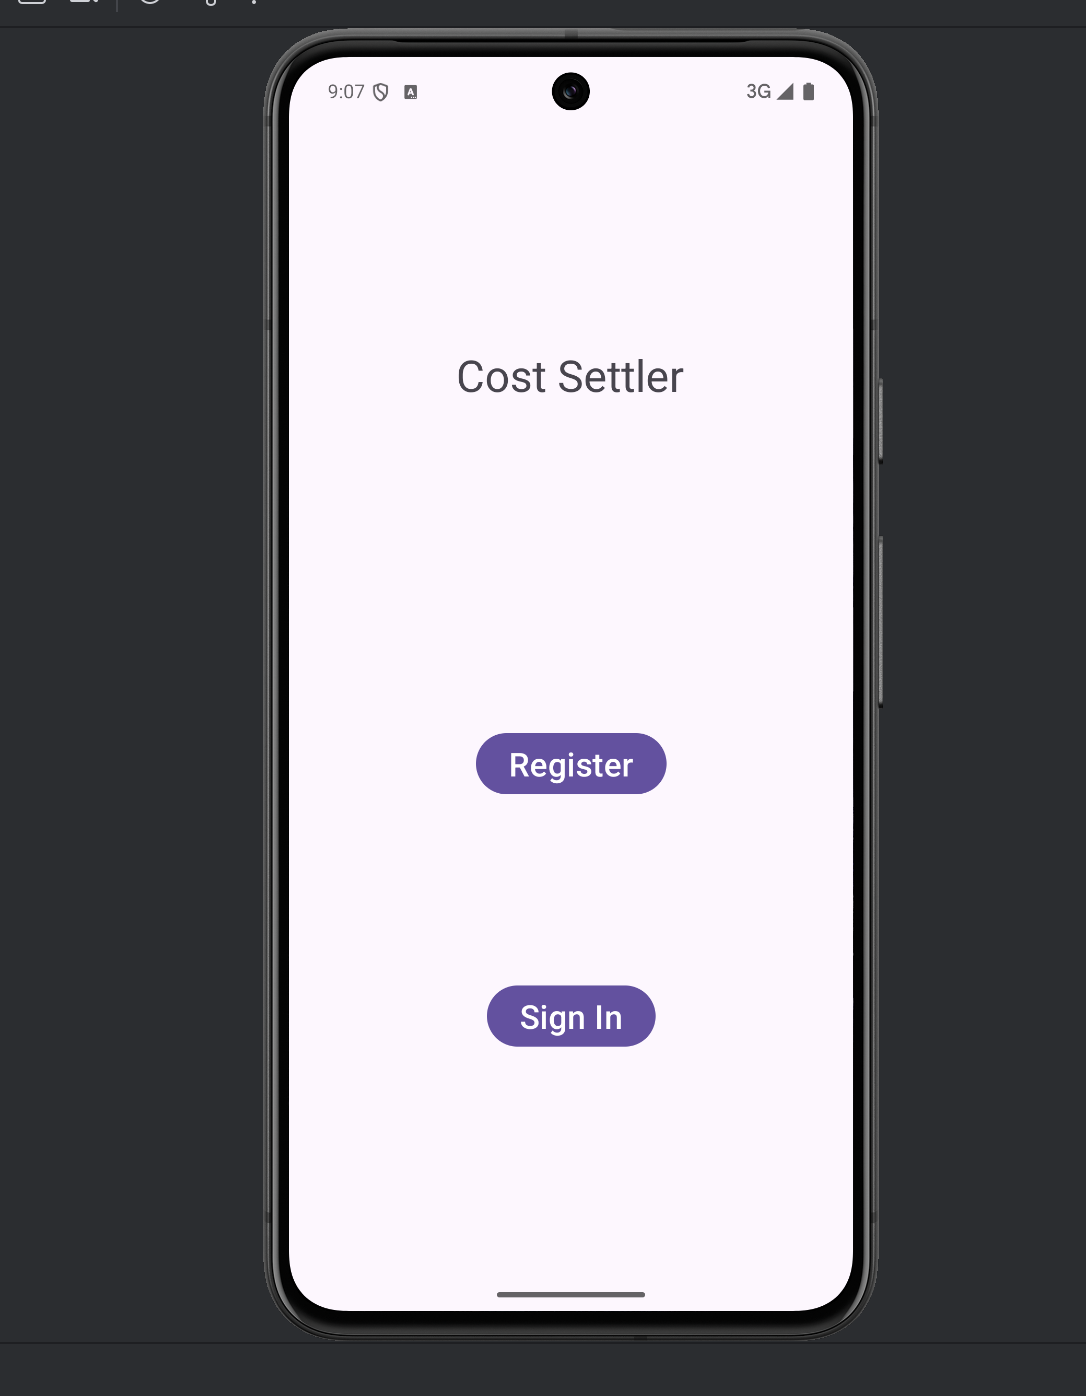
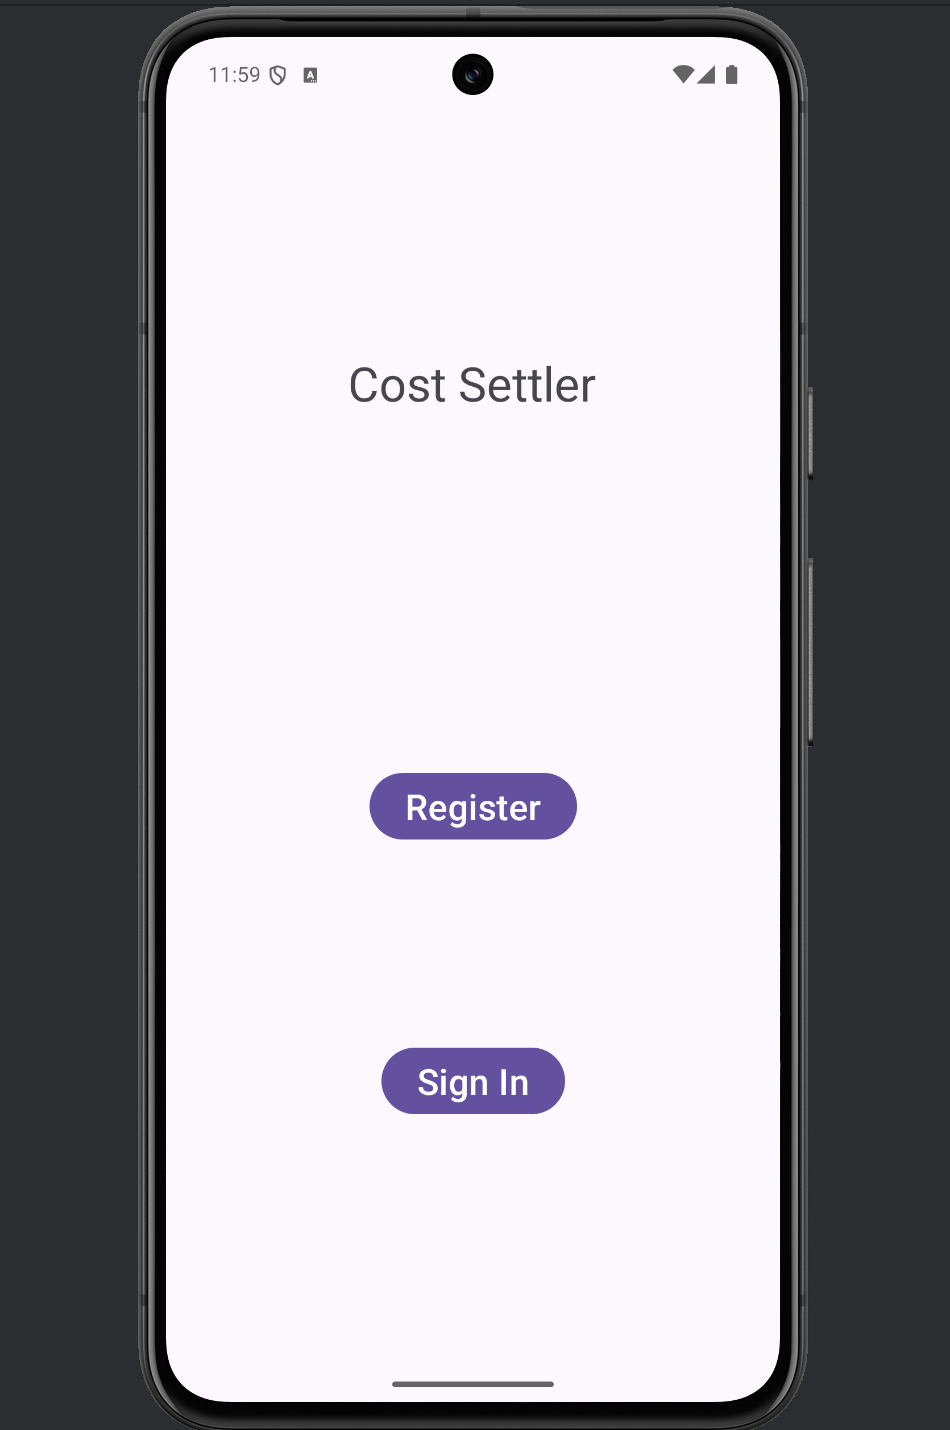
updated projects sections, tweaked a little more CSS

diff --git a/app/projects/page.tsx b/app/projects/page.tsx
@@ -5,75 +5,95 @@ import { TextEffect } from "@/components/motion-primitives/text-effect"
 export default function Projects() {
     return (
         <div className=" text-gray-100 flex items-center justify-evenly flex-col min-h-screen p-4">
-                    <h1 className=" text-4xl w-full sm:h-16 sm:w-1/2 flex items-center sm:text-left sm:justify-normal justify-center text-shadow-[4px_4px_4px_rgba(59,130,246,10)]"><TextEffect per="char" preset="slide">Projects</TextEffect></h1>
-                    {/* project card */}
-                    <Link href="https://github.com/ashiqsyed/Cost-Settler" target="_blank" className="sm:w-1/2 rounded-xl sm:h-64 sm:ml-8 sm:mr-8 sm:mt-8 sm:mb-4 mt-4 ml-4 mr-4 mb-10 transition-all duration-150 hover:shadow-[8px_8px_8px_rgba(55,65,81,0.7)]">
-                        <Card className="w-full sm:h-full">
-                            <CardContent className="flex items-center h-full flex-col-reverse sm:flex-row">
-                                <div className="sm:w-3/4 w-11/12 text-center sm:text-left h-full flex flex-col sm:p-1">
-                                    <h1 className="text-2xl h-1/6 w-full mt-1 ml-2 mr-2"><TextEffect delay={1}>Cost Settler</TextEffect></h1>
-                                    <div className="flex flex-col justify-between  h-5/6 mb-4 sm:mr-2 sm:ml-2 w-full text-gray-400">
-                                        <div><TextEffect per="line" delay={2}>Android app built using Java and Google Firebase for the realtime database and user authentication. Users within a household have a shared shopping list and have their own individual shopping carts. They can make purchases, see their purchase history, and settle the cost with their roommates.</TextEffect></div>
-                                        <div className="text-blue-500 decoration-dotted underline"><TextEffect per="line" delay={2}>Click the card to see the repository</TextEffect></div>
-                                    </div>
-                                </div>                          
-                                <Image 
-                                    src="/costsettler.png"
-                                    width={300}
-                                    height={300}
-                                    alt="Cost Settler IMG"
-                                    className="sm:w-1/3 rounded-t-xl sm:rounded-r-xl sm:rounded-l-none sm:h-full w-full"
-                                />
-                            </CardContent>
-                        </Card>
-                    </Link>
+            <h1 className=" text-4xl w-full sm:h-16 sm:w-1/2 flex items-center sm:text-left sm:justify-normal justify-center text-shadow-[4px_4px_4px_rgba(59,130,246,10)]"><TextEffect per="char" preset="slide">Projects</TextEffect></h1>
+            {/* project card */}
+            <Card className="rounded-xl sm:w-1/2  sm:h-64 sm:ml-8 sm:mr-8 sm:mt-8 sm:mb-4 mt-4 ml-4 mr-4 mb-10 transition-all duration-150 hover:shadow-[8px_8px_8px_rgba(55,65,81,0.7)]">
+                <CardContent className="flex items-center h-full flex-col sm:flex-row">
+                    <Image 
+                        src="/jbtrckr.png"
+                        width={300}
+                        height={300}
+                        alt="Remindeer IMG"
+                        className="sm:w-1/3 rounded-t-xl sm:rounded-l-xl sm:rounded-r-none sm:h-full w-full"
+                    />
+                    <div className="sm:w-3/4 w-11/12 text-center sm:text-left h-full flex flex-col sm:p-1">
+                        <h1 className="text-2xl h-1/6 w-full mt-1 ml-0.5"><TextEffect delay={1}>Jbtrckr</TextEffect></h1>
+                        <div className="flex flex-col justify-between  h-5/6 mb-4 sm:ml-0.5  w-full text-gray-400">
+                            <div><TextEffect per="line" delay={2}>Web app built using Next.js, Java Spring Boot and a Dockerized PostgreSQL database. Users have the ability to create their own accounts and perform per-user CRUD operations enabled by JWT-based authentication, securing the backend. </TextEffect></div>
+                            <div className="text-blue-500 underline decoration-dotted flex items-center justify-between text-sm w-full">
+                                <Link href="https://www.github.com/ashiqsyed/jbtrckr-frontend" target="_blank" className="w-1/2 "><TextEffect per="line" delay={2}>Click here for the frontend repo</TextEffect></Link>
+                                <Link href="https://www.github.com/ashiqsyed/jbtrckr-backend" target="_blank" className="w-1/2"><TextEffect per="line" delay={2}>Click here for the backend repo</TextEffect></Link>                                        
+                            </div>
+                        </div>
+                    </div>                          
+                    
+                </CardContent>
+            </Card>
+            
+            <Link href="https://github.com/ashiqsyed/Cost-Settler" target="_blank" className="sm:w-1/2 rounded-xl sm:h-64 sm:ml-8 sm:mr-8 sm:mt-8 sm:mb-4 mt-4 ml-4 mr-4 mb-10 transition-all duration-150 hover:shadow-[8px_8px_8px_rgba(55,65,81,0.7)]">
+                <Card className="w-full sm:h-full">
+                    <CardContent className="flex items-center h-full flex-col sm:flex-row-reverse">
+                        <Image 
+                            src="/costsettler.png"
+                            width={300}
+                            height={300}
+                            alt="Cost Settler IMG"
+                            className="sm:w-1/3 rounded-t-xl sm:rounded-r-xl sm:rounded-l-none sm:h-full w-full"
+                        />
+                        <div className="sm:w-3/4 w-11/12 text-center sm:text-left h-full flex flex-col sm:p-1">
+                            <h1 className="text-2xl h-1/6 w-full mt-1 ml-2 mr-2"><TextEffect delay={1}>Cost Settler</TextEffect></h1>
+                            <div className="flex flex-col justify-between  h-5/6 mb-4 sm:mx-0.5 w-full text-gray-400">
+                                <div><TextEffect per="line" delay={2}>Android app built using Java and Google Firebase for the realtime database and user authentication. Users within a household have a shared shopping list and have their own individual shopping carts. They can make purchases, see their purchase history, and settle the cost with their roommates.</TextEffect></div>
+                                <div className="text-blue-500 decoration-dotted underline"><TextEffect per="line" delay={2}>Click the card to see the repository</TextEffect></div>
+                            </div>
+                        </div>                          
+                        
+                    </CardContent>
+                </Card>
+            </Link>
 
-                    <Link href="https://github.com/ashiqsyed/state-capitals-quiz" target="_blank" className="rounded-xl sm:w-1/2  sm:h-64 sm:ml-8 sm:mr-8 sm:mt-8 sm:mb-4 mt-4 ml-4 mr-4 mb-10  transition-all  duration-150 hover:shadow-[8px_8px_8px_rgba(55,65,81,0.7)] ">
-                        <Card className="w-full sm:h-full">
-                            <CardContent className="flex items-center h-full flex-col-reverse sm:flex-row-reverse">
-                                <div className="sm:w-3/4 w-11/12 text-center sm:text-left h-full flex flex-col sm:p-1">
-                                    <h1 className="text-2xl h-1/6 w-full mt-1 ml-2 mr-2"><TextEffect delay={1}>State Capitals Quiz</TextEffect></h1>
-                                    <div className="flex flex-col justify-between  h-5/6 mb-4 sm:mr-2 sm:ml-2 w-full text-gray-400">
-                                        <div><TextEffect per="line" delay={2}>Android app built, with a partner, using Java and SQLite for the database. A CSV file containing the states and 3 cities is read and stored in a table. The player is given a six question quiz, displaying their score at the end. Users are able to view their previous attempts.</TextEffect></div>
-                                        <div className="text-blue-500 underline decoration-dotted"><TextEffect per="line" delay={2}>Click the card to see the repository</TextEffect></div>
-                                    </div>
-                                </div>                          
-                                <Image 
-                                    src="/statecapitalsquiz.png"
-                                    width={300}
-                                    height={300}
-                                    alt="State Capitals Quiz IMG"
-                                    className="sm:w-1/3 rounded-t-xl sm:rounded-l-xl sm:rounded-r-none sm:h-full w-full"
-                                />
-                            </CardContent>
-                        </Card>
-                    </Link>
+            <Link href="https://github.com/ashiqsyed/remindeer" target="_blank" className="rounded-xl sm:w-1/2  sm:h-64 sm:ml-8 sm:mr-8 sm:mt-8 sm:mb-4 mt-4 ml-4 mr-4 mb-10  transition-all duration-150 hover:shadow-[8px_8px_8px_rgba(55,65,81,0.7)] ">
+                <Card className="w-full sm:h-full">
+                    <CardContent className="flex items-center h-full flex-col sm:flex-row">
+                        <Image 
+                            src="/remindeer.png"
+                            width={300}
+                            height={300}
+                            alt="Remindeer IMG"
+                            className="sm:w-1/3 rounded-t-xl sm:rounded-l-xl sm:rounded-r-none sm:h-full w-full"
+                        />
+                        <div className="sm:w-3/4 w-11/12 text-center sm:text-left h-full flex flex-col sm:p-1">
+                            <h1 className="text-2xl h-1/6 w-full mt-1 ml-2 mr-2"><TextEffect delay={1}>Remindeer</TextEffect></h1>
+                            <div className="flex flex-col justify-between  h-5/6 mb-4 sm:ml-0.5  w-full text-gray-400">
+                                <div><TextEffect per="line" delay={2}>Web app built, in a team of four, using Next.js, Express.js, and MongoDB. Users can create their own accounts and perform basic CRUD operations only when authorized. Authentication and authorization is handled using JWTs that are verified in the backend.</TextEffect></div>
+                                <div className="text-blue-500 underline decoration-dotted"><TextEffect per="line" delay={2}>Click the card to see the repository</TextEffect></div>
+                            </div>
+                        </div>                          
+                        
+                    </CardContent>
+                </Card>
+            </Link>
 
-                    <Link href="https://github.com/ashiqsyed/remindeer" target="_blank" className="rounded-xl sm:w-1/2  sm:h-64 sm:ml-8 sm:mr-8 sm:mt-8 sm:mb-4 mt-4 ml-4 mr-4 mb-10  transition-all duration-150 hover:shadow-[8px_8px_8px_rgba(55,65,81,0.7)] ">
-                        <Card className="w-full sm:h-full">
-                            <CardContent className="flex items-center h-full flex-col-reverse sm:flex-row">
-                                <div className="sm:w-3/4 w-11/12 text-center sm:text-left h-full flex flex-col sm:p-1">
-                                    <h1 className="text-2xl h-1/6 w-full mt-1 ml-2 mr-2"><TextEffect delay={1}>Remindeer</TextEffect></h1>
-                                    <div className="flex flex-col justify-between  h-5/6 mb-4 sm:ml-2  w-full text-gray-400">
-                                        <div><TextEffect per="line" delay={2}>Web app built, in a team of four, using Next.js, Express.js, and MongoDB. Users can create their own accounts and perform basic CRUD operations, keeping track of reminders. Authentication is handled using JWTs that are verified in the backend.</TextEffect></div>
-                                        <div className="text-blue-500 underline decoration-dotted"><TextEffect per="line" delay={2}>Click the card to see the repository</TextEffect></div>
-                                    </div>
-                                </div>                          
-                                <Image 
-                                    src="/remindeer.png"
-                                    width={300}
-                                    height={300}
-                                    alt="Remindeer IMG"
-                                    className="sm:w-1/3 rounded-t-xl sm:rounded-r-xl sm:rounded-l-none sm:h-full w-full"
-                                />
-                            </CardContent>
-                        </Card>
-                    </Link>
-                    
-                    
-                    
+            <Link href="https://github.com/ashiqsyed/state-capitals-quiz" target="_blank" className="rounded-xl sm:w-1/2  sm:h-64 sm:ml-8 sm:mr-8 sm:mt-8 sm:mb-4 mt-4 ml-4 mr-4 mb-10  transition-all  duration-150 hover:shadow-[8px_8px_8px_rgba(55,65,81,0.7)] ">
+                <Card className="w-full sm:h-full">
+                    <CardContent className="flex items-center h-full flex-col sm:flex-row-reverse">
+                        <Image 
+                            src="/statecapitalsquiz.png"
+                            width={300}
+                            height={300}
+                            alt="State Capitals Quiz IMG"
+                            className="sm:w-1/3 rounded-t-xl sm:rounded-l-none sm:rounded-r-xl sm:h-full w-full"
+                        />
+                        <div className="sm:w-3/4 w-11/12 text-center sm:text-left h-full flex flex-col sm:p-1">
+                            <h1 className="text-2xl h-1/6 w-full mt-1 ml-0.5"><TextEffect delay={1}>State Capitals Quiz</TextEffect></h1>
+                            <div className="flex flex-col justify-between  h-5/6 mb-4 sm:mx-0.5 w-full text-gray-400">
+                                <div><TextEffect per="line" delay={2}>Android app built, with a partner, using Java and SQLite for the database. A CSV file containing the states and 3 cities is read and stored in a table. The player is given a six question quiz, displaying their score at the end. Users are able to view their previous attempts.</TextEffect></div>
+                                <div className="text-blue-500 underline decoration-dotted"><TextEffect per="line" delay={2}>Click the card to see the repository</TextEffect></div>
+                            </div>
+                        </div>                          
+                    </CardContent>
+                </Card>
+            </Link>
           </div>
-
-    
     )
 }

diff --git a/components/Footer.tsx b/components/Footer.tsx
@@ -2,11 +2,11 @@ import Link from "next/link";
 import { FaGithub, FaLinkedin, FaExternalLinkAlt } from "react-icons/fa";
 const Footer = () => {
     return (
-        <div className="sm:h-16 h-36 w-full flex text-gray-400  text-lg flex-col justify-betwen bg-gray-900/5 sm:flex-row  p-4 sm:pl-0">
+        <div className="sm:h-16 h-36 w-full flex text-gray-400  text-lg flex-col justify-betwen bg-gray-900/5 sm:flex-row  p-4 sm:p-0 ">
             {/* github, resume, linkedin */}
-            <div className="h-full w-1/2 sm:w-1/2">
-                <ul className="flex w-full h-full items-center justify-evenly flex-col sm:flex-row ">
-                    <li className=" w-full sm:w-1/6 h-1/3 sm:h-full flex justify-center"><Link href="https://github.com/ashiqsyed" target="_blank" className="w-full h-full flex items-center hover:text-blue-400 transition-all duration-150"><FaGithub className="mr-2"/> github</Link></li>
+            <div className="h-full w-1/2 sm:w-1/2 ">
+                <ul className="flex w-full h-full items-center flex-col sm:flex-row  sm:pl-24">
+                    <li className="w-full sm:w-1/6 h-1/3 sm:h-full flex justify-center"><Link href="https://github.com/ashiqsyed" target="_blank" className="w-full h-full flex items-center hover:text-blue-400 transition-all duration-150"><FaGithub className="mr-2"/> github</Link></li>
                     <li className="w-full h-1/3 sm:w-1/6 sm:h-full flex justify-center"><Link href="https://www.linkedin.com/in/ashiqsyed" target="_blank" className="w-full flex items-center hover:text-blue-400 transition duration-150"><FaLinkedin className="mr-2"/> linkedin</Link></li>
                     <li className="w-full h-1/3 sm:w-1/6 sm:h-full flex justify-center"><Link href="/Ashiq_Syed_Resume.pdf" target="_blank" className="w-full  h-full flex items-center hover:text-blue-400 transition duration-150"><FaExternalLinkAlt className="mr-2" /> resume</Link></li>
                 </ul>

diff --git a/app/page.tsx b/app/page.tsx
@@ -8,14 +8,14 @@ export default function Home() {
   return (
       <div className=" w-full sm:py-16  flex justify-center sm:max-2xl:h-[575px]"> 
         
-        <div className="text-gray-100 sm:w-1/2 w-3/4 flex flex-col h-full  justify-center sm:py-16 my-24">
-            <TextEffect className="text-2xl mb-4 mt-6 sm:mt-0 w-full text-center " per="line" preset="fade-in-blur" speedReveal={0.6} >
+        <div className="text-gray-100 sm:w-1/2 w-3/4 flex flex-col h-full  justify-center sm:py-16 my-12">
+            <TextEffect className="text-2xl my-0  w-full text-center " per="line" preset="fade-in-blur" speedReveal={0.6} >
               Hello, I&apos;m
             </TextEffect>
-            <TextEffect className="text-6xl mt-4 mb-4 h-48 flex items-center justify-center text-center w-full sm:h-32 text-shadow-[7px_7px_7px_rgba(59,130,246,10)]" per="char" speedSegment={0.25} preset="slide" delay={1}>
+            <TextEffect className="text-6xl sm:my-4 flex items-center justify-center text-center w-full h-32 text-shadow-[7px_7px_7px_rgba(59,130,246,10)]" per="char" speedSegment={0.25} preset="slide" delay={1}>
               Ashiq Syed
             </TextEffect>
-            <TextEffect className="text-3xl text-center my-4" per="line" speedSegment={0.75} delay={2} preset="fade-in-blur">
+            <TextEffect className="text-3xl text-center my-4 " per="line" speedSegment={0.75} delay={2} preset="fade-in-blur">
               Recent computer science graduate from the University of Georgia
             </TextEffect>
             <div className="w-full flex items-center justify-around text-xl flex-row  text-center h-1/2">
